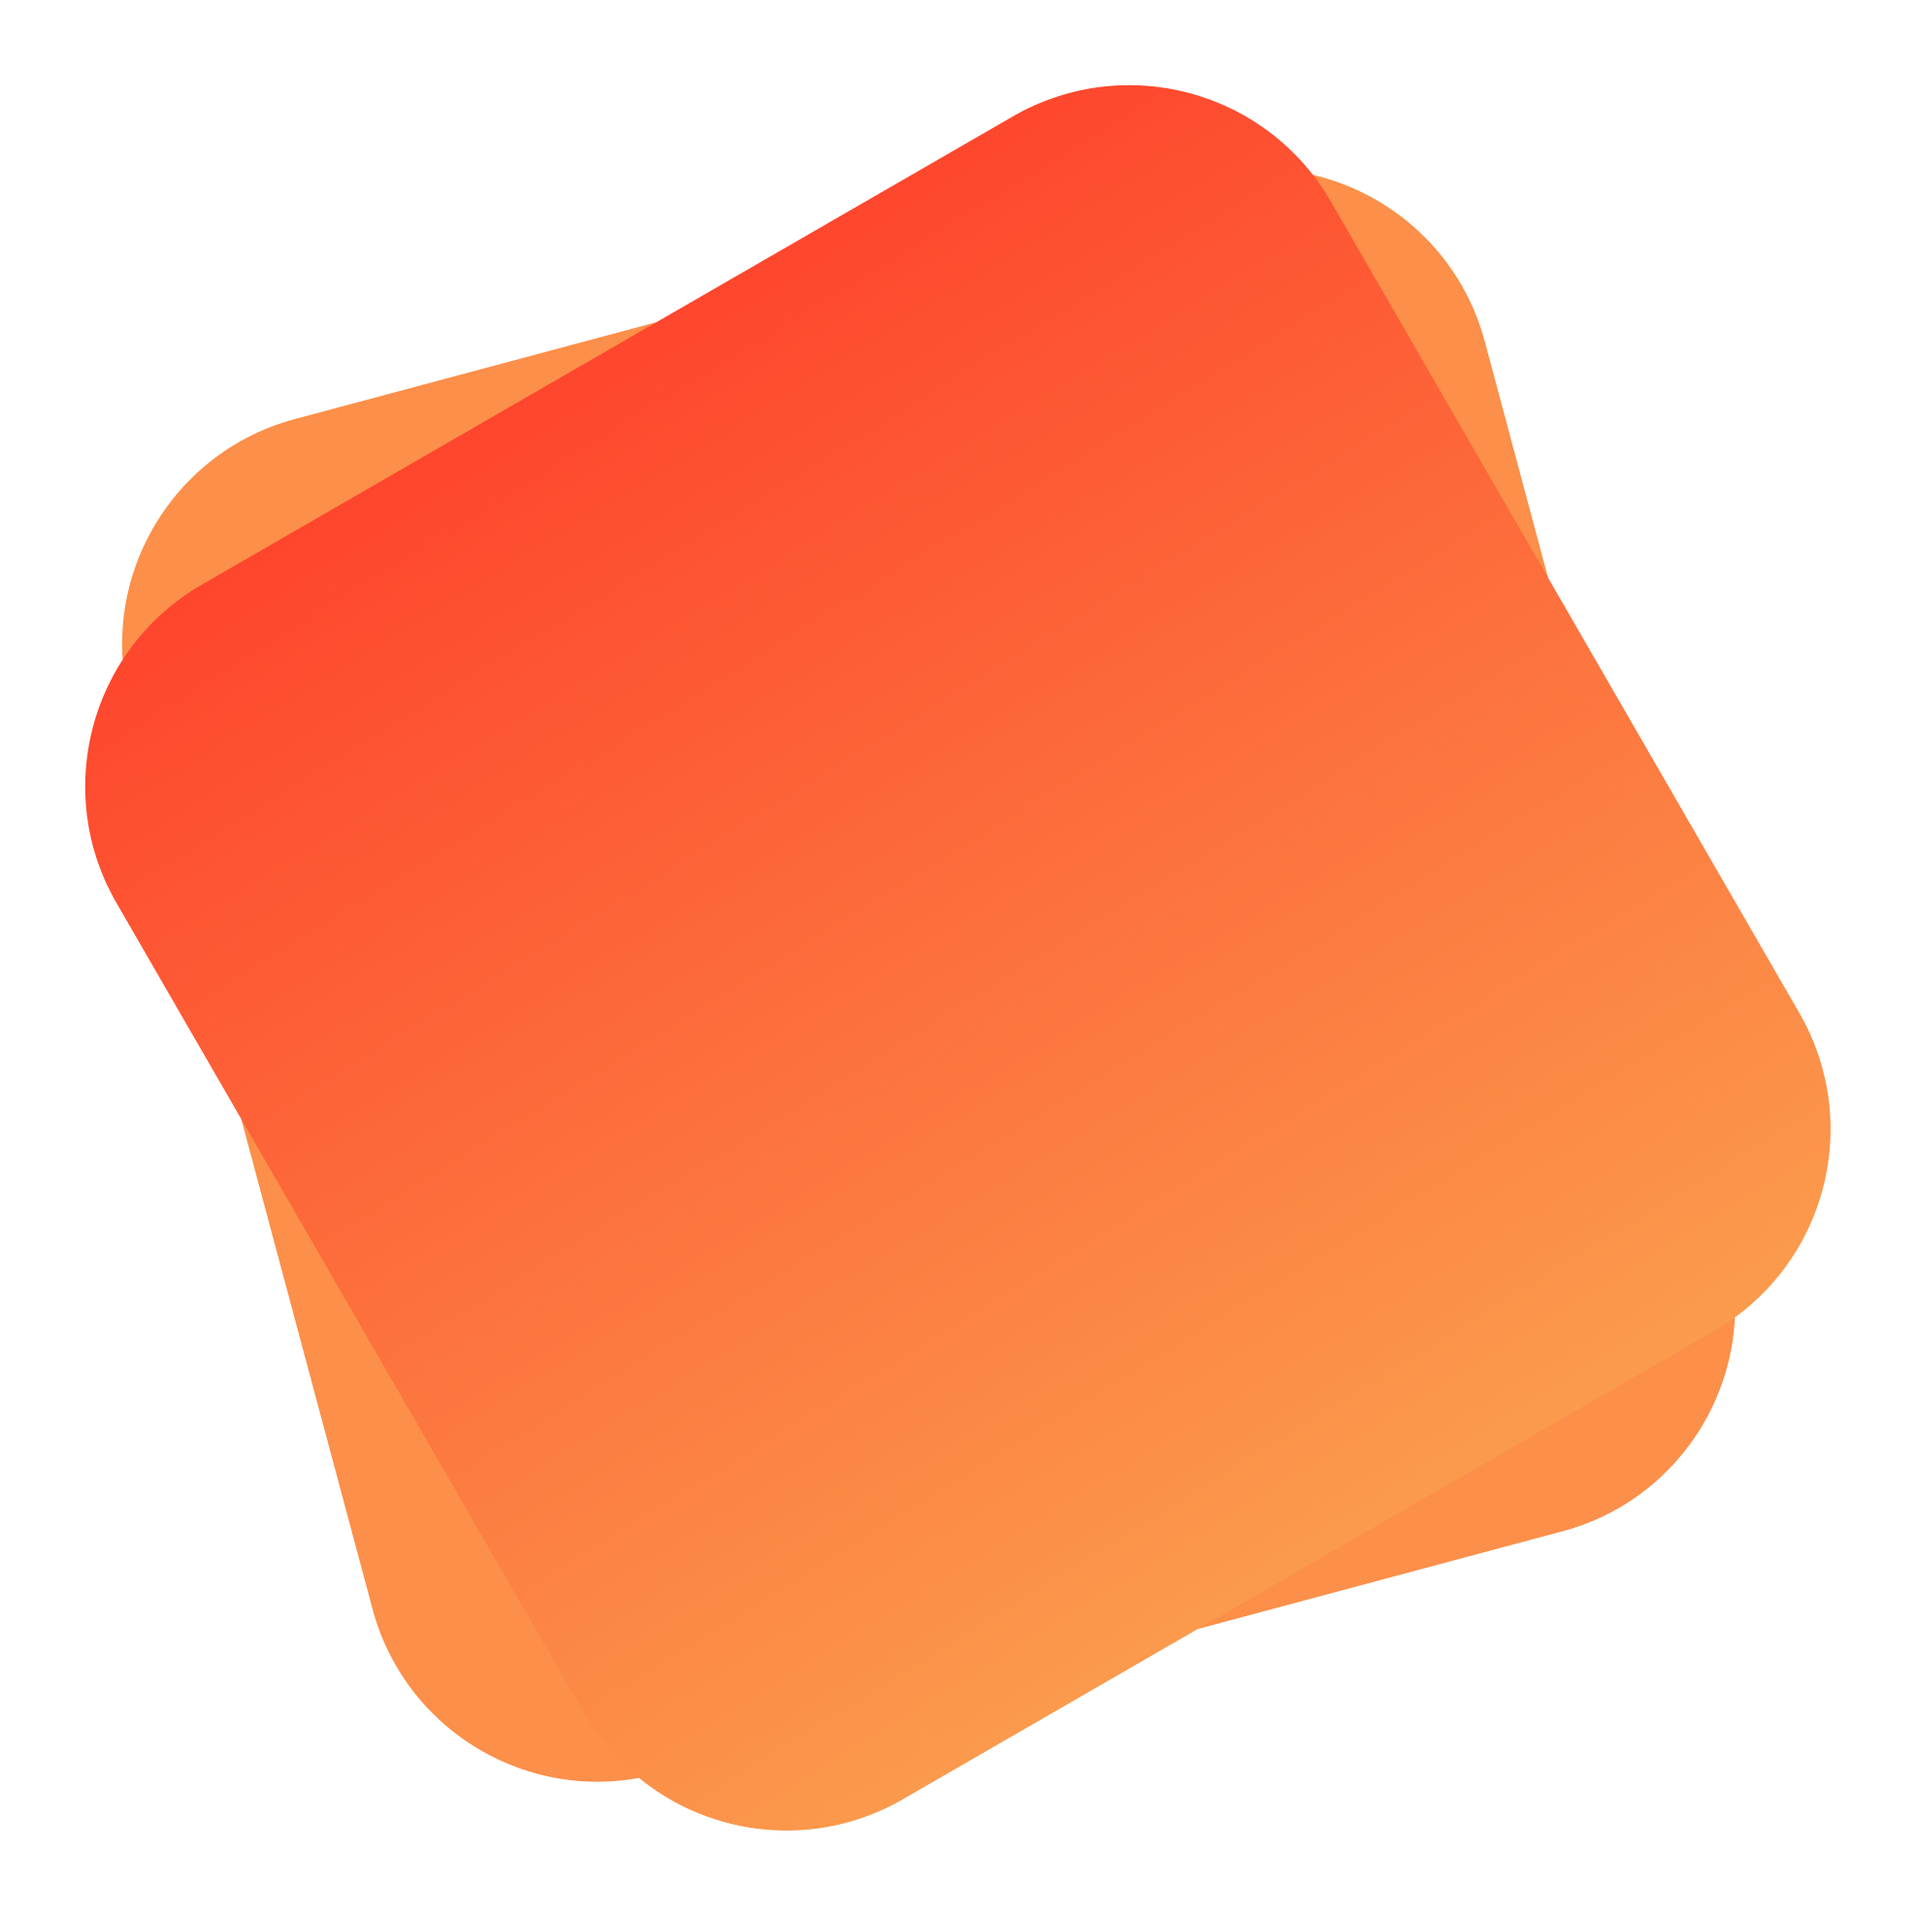
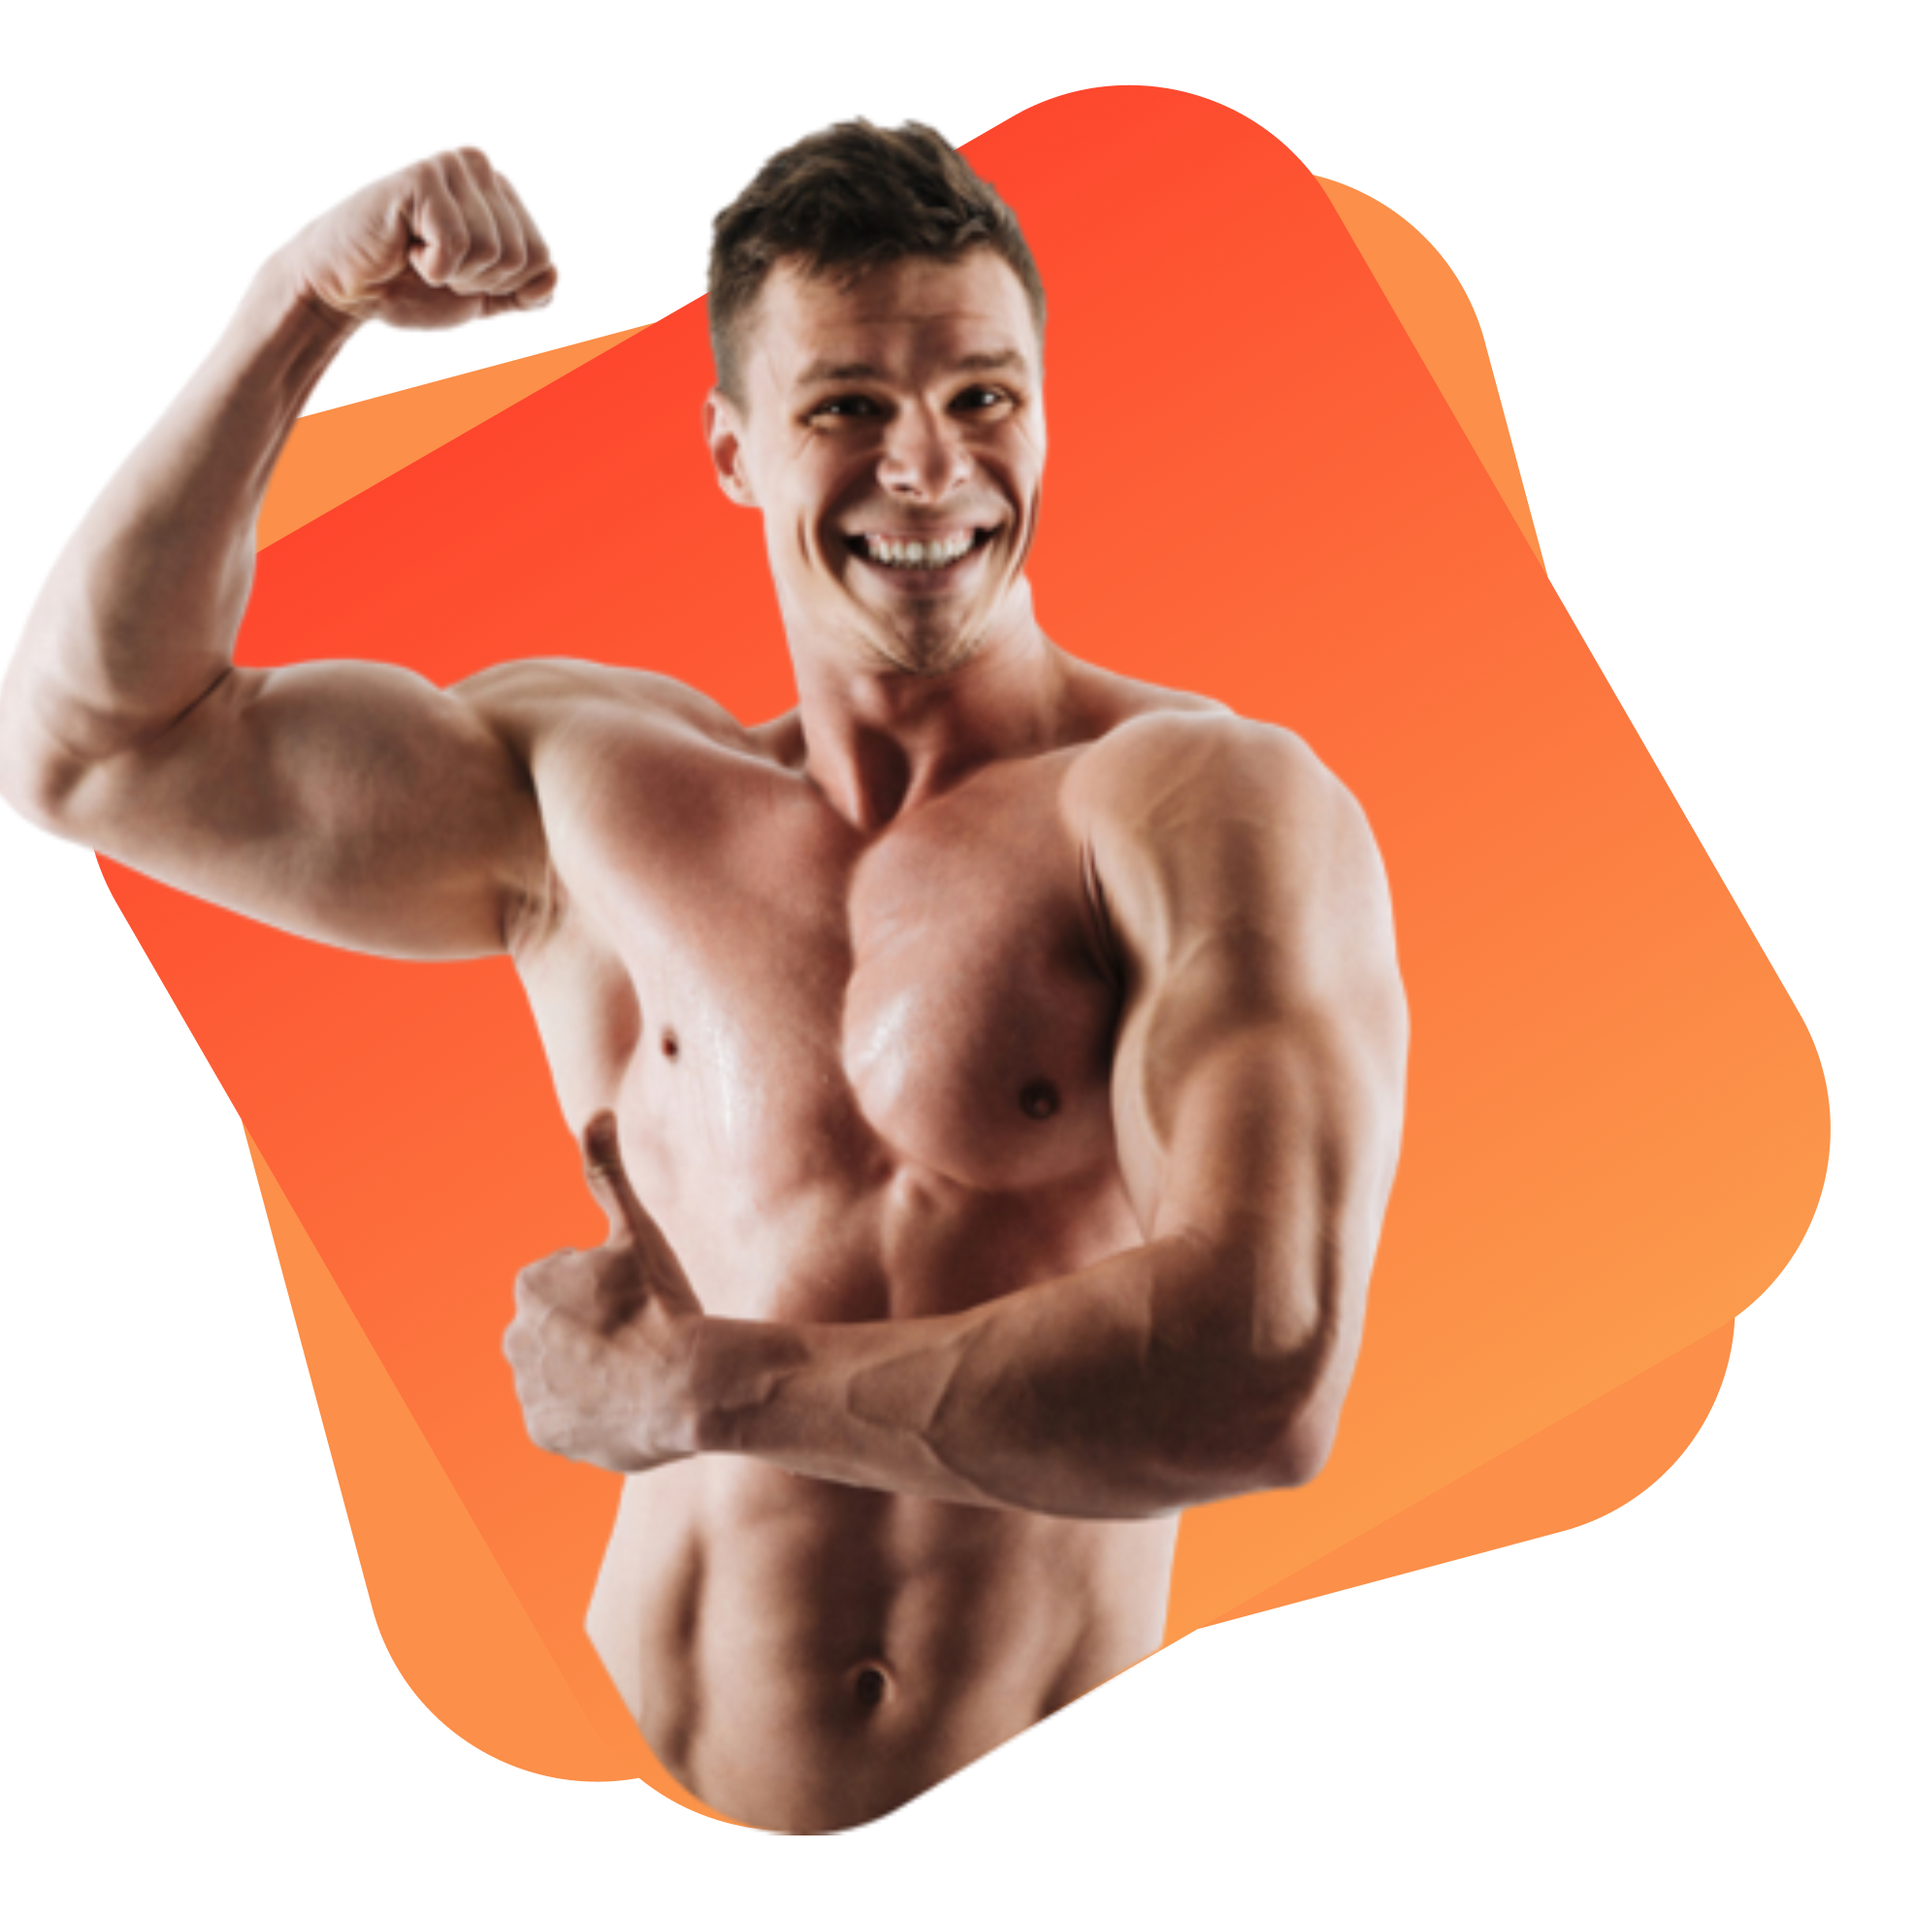
middle section added

diff --git a/index.html b/index.html
@@ -6,11 +6,44 @@
     <meta http-equiv="X-UA-Compatible" content="IE=edge">
     <meta name="viewport" content="width=device-width, initial-scale=1.0">
     <title>Healthy Eat</title>
+    <link rel="preconnect" href="https://fonts.googleapis.com">
+    <link rel="preconnect" href="https://fonts.gstatic.com" crossorigin>
+    <link href="https://fonts.googleapis.com/css2?family=Noto+Sans&display=swap" rel="stylesheet">
     <link rel="stylesheet" href="style.css">
 </head>
 
 <body>
-
+    <section class="flex-use">
+        <div class="text-site">
+            <h1><span class="mark-text">Skip</span> The Diet,Just Eat Healthy With Food Network
+            </h1>
+            <h4>Imagine you don't need a diet because we provide
+                healthy and delicious food for you!</h4>
+            <div class="button">
+                <a target="_blank" href="https://www.foodpanda.com.bd/restaurant/s2yh/pizza-burg-dhanmondi">ORDER
+                    FOOD</a>
+            </div>
+        </div>
+        <div class="image-site">
+            <img src="images/shapes/Group 8450.png" alt="">
+        </div>
+    </section>
+    <section id="midsection-bg" class="flex-use">
+        <div id="aboutme-img">
+            <img src="images/female/Person Image.png" alt="">
+        </div>
+        <div id="about-me">
+            <h1>About Me</h1>
+            <p>Lorem ipsum dolor sit amet, consectetur adipiscing
+                elit. Condimentum diam orci pretium a pharetra,
+                feugiat cursus. Dictumst risus, sem egestas odio cras
+                adipiscing vulputate. Nisi, risus in suscipit non. Non
+                commodo volutpat, pharetra, vel.</p>
+            <div class="button">
+                <a target="_blank" href="https://www.youtube.com/watch?v=rEdKCLrwIt8">CONTACT ME</a>
+            </div>
+        </div>
+    </section>
 </body>
 
 </html>

diff --git a/style.css b/style.css
@@ -1,0 +1,65 @@
+body {
+    font-family: 'Noto Sans', sans-serif;
+    margin: 0;
+}
+
+h1 {
+    font-size: 50px;
+}
+
+.flex-use {
+    display: flex;
+    margin-bottom: 100px;
+}
+
+.mark-text {
+    color: orange;
+}
+
+.button {
+    margin-top: 50px;
+}
+
+a {
+    text-decoration: none;
+    color: white;
+    background-image: linear-gradient(rgb(56, 9, 59), tomato);
+    padding: 15px 25px;
+    border-radius: 30px;
+}
+
+.text-site {
+    width: 50%;
+    margin-left: 50px;
+    margin-top: 40px;
+
+}
+
+.image-site {
+    width: 50%;
+    margin-left: 50px;
+
+}
+
+.image-site img {
+    width: 100%;
+}
+
+#midsection-bg {
+    background-image: url(images/shapes/7.png);
+}
+
+#about-me {
+    width: 50%;
+    margin-top: 30px;
+    margin-right: 100px;
+}
+
+#aboutme-img {
+    width: 50%;
+    margin-left: 100px;
+}
+
+#aboutme-img img {
+    width: 60%;
+}
